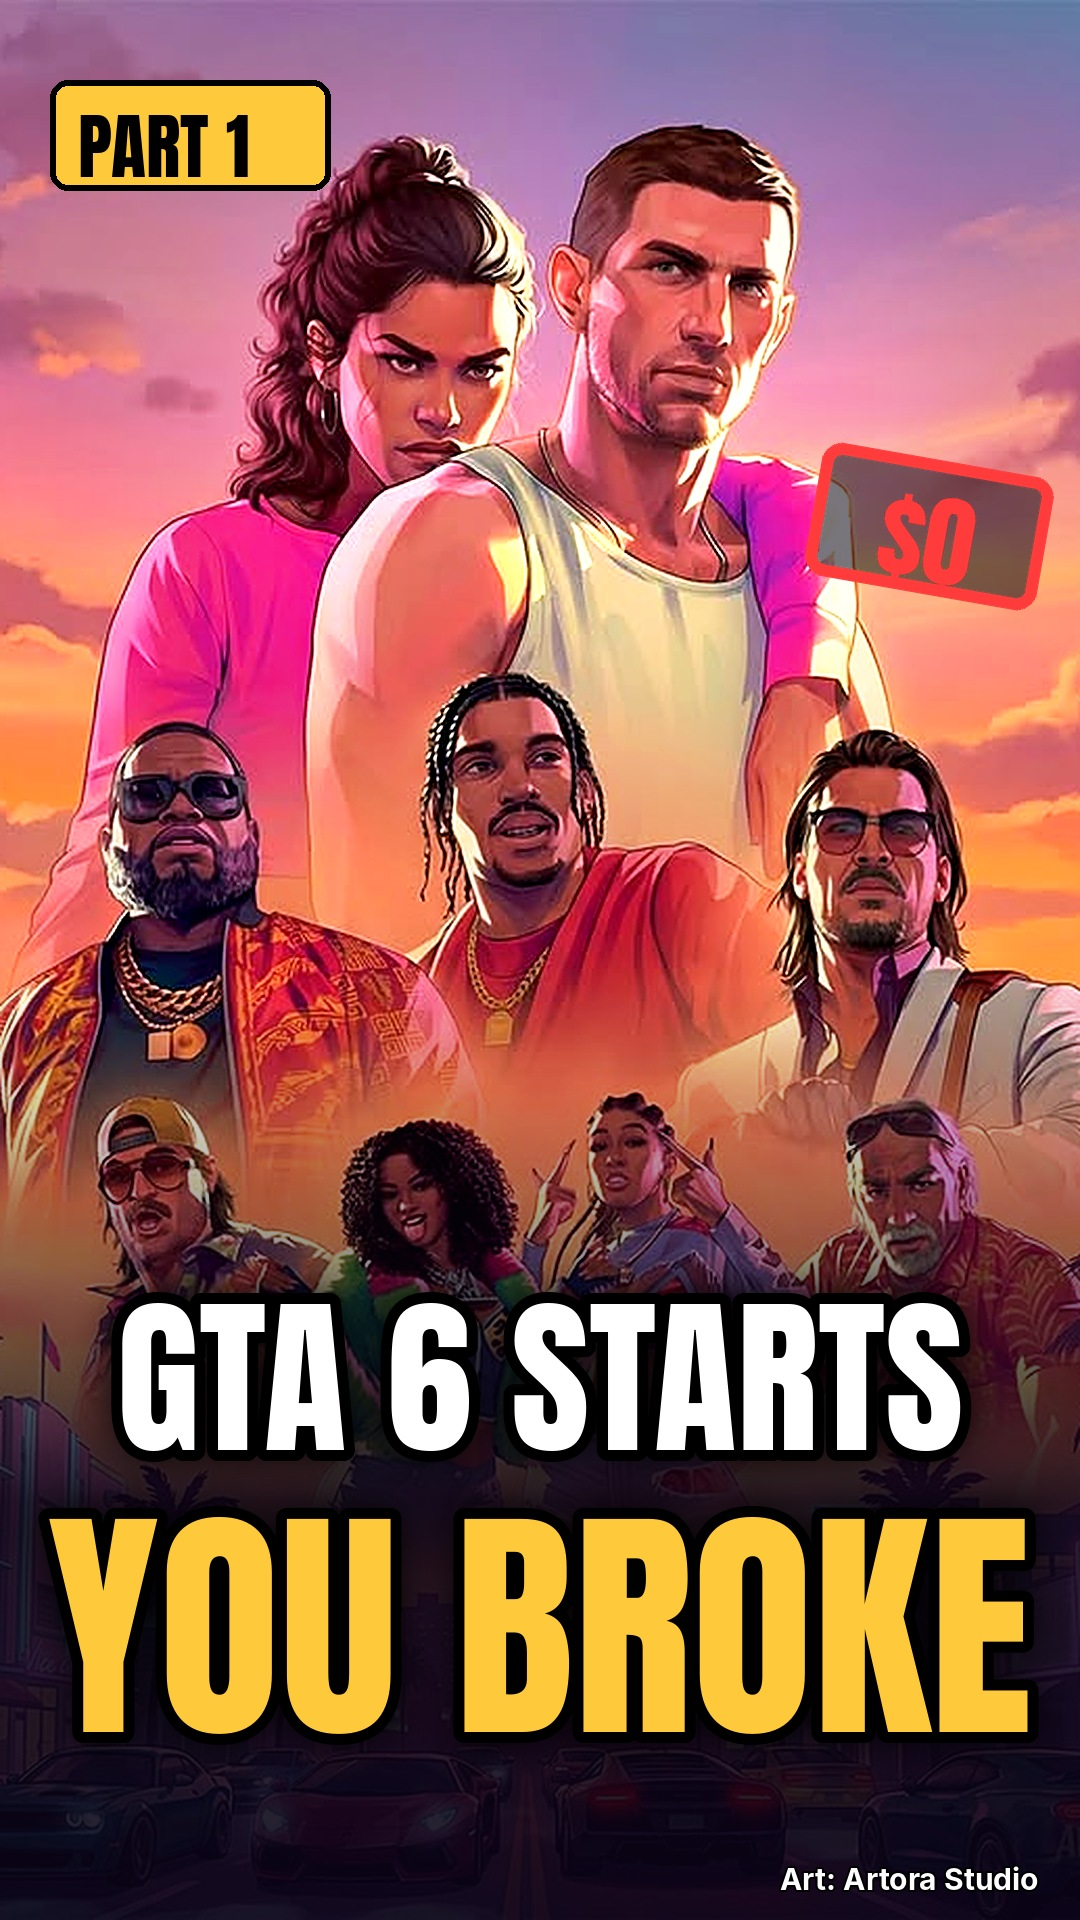
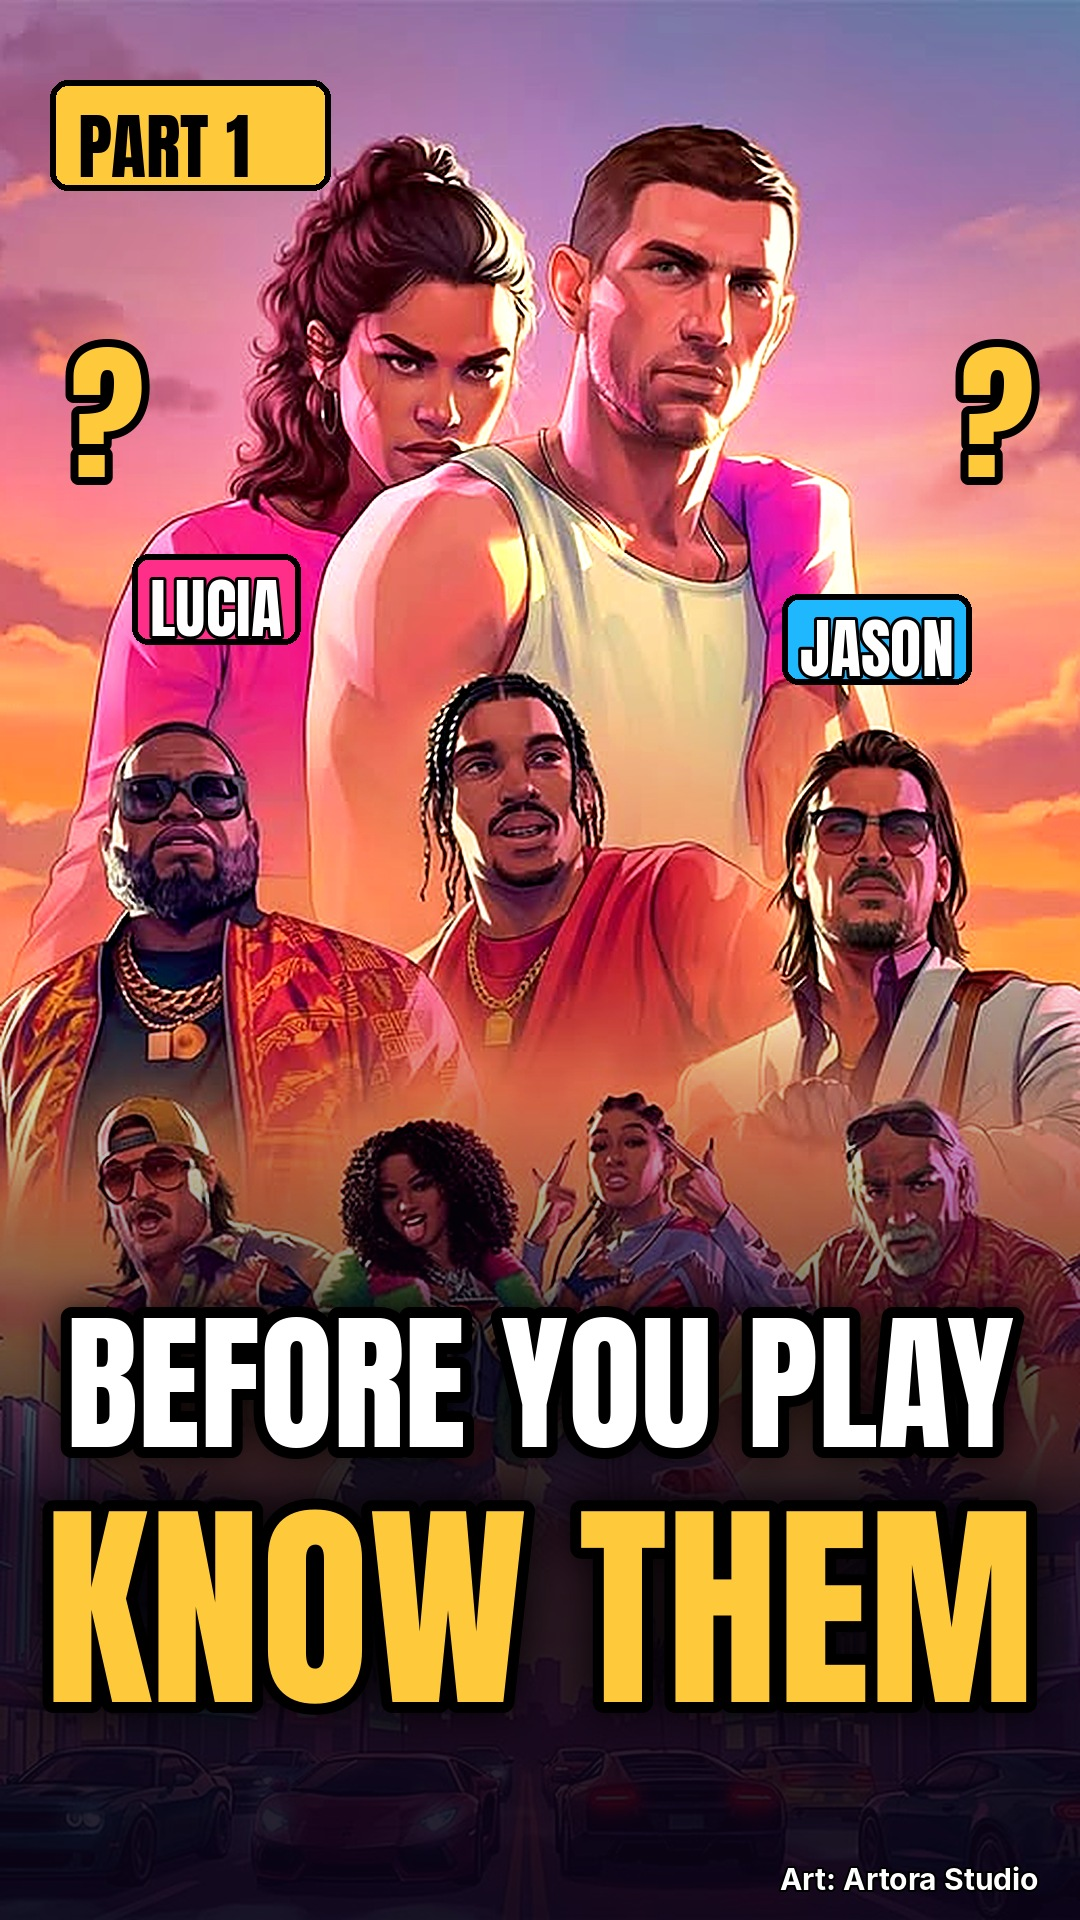
024 Part 1 cover: 'Before you play / Know them' + name tags (B/C alternates)
Claude-Session: https://claude.ai/code/session_01DX4dbwA3bNBQnMT2RJeEkt

diff --git a/production/make_cover024a.py b/production/make_cover024a.py
@@ -2,6 +2,9 @@
 import sys
 from PIL import Image, ImageDraw, ImageFont, ImageFilter, ImageEnhance
 src, out = sys.argv[1], sys.argv[2]
+L1 = sys.argv[3] if len(sys.argv) > 3 else "GTA 6 STARTS"
+L2 = sys.argv[4] if len(sys.argv) > 4 else "YOU BROKE"
+TAGS = len(sys.argv) > 5 and sys.argv[5] == "tags"
 W, H = 1080, 1920
 im = Image.open(src).convert("RGB")
 cw = int(im.height * 9 / 16); cx = 375 - cw // 2
@@ -21,18 +24,22 @@ def line(t, size, y, fill):
     f = ImageFont.truetype(F, size)
     while d.textlength(t, font=f) > W - 80: size -= 6; f = ImageFont.truetype(F, size)
     d.text(((W - d.textlength(t, font=f)) / 2, y), t, font=f, fill=fill, stroke_width=11, stroke_fill=(0, 0, 0))
-line("GTA 6 STARTS", 170, 1250, (255, 255, 255))
-line("YOU BROKE", 260, 1440, (255, 201, 60))
+line(L1, 150, 1270, (255, 255, 255))
+line(L2, 240, 1440, (255, 201, 60))
 glow = txt.filter(ImageFilter.GaussianBlur(18)); dk = Image.new("RGBA", (W, H), (0, 0, 0, 0)); dk.putalpha(glow.split()[3].point(lambda a: int(a * .8)))
 im = Image.alpha_composite(im, dk); im = Image.alpha_composite(im, txt)
 d = ImageDraw.Draw(im)
 # PART 1 tag
 f = ImageFont.truetype(F, 72); d.rounded_rectangle((50, 80, 330, 190), 18, fill=(255, 201, 60), outline=(0, 0, 0), width=6); d.text((78, 92), "PART 1", font=f, fill=(0, 0, 0))
-# red $0 stamp
-st = Image.new("RGBA", (250, 150), (0, 0, 0, 0)); sd = ImageDraw.Draw(st)
-sd.rounded_rectangle((8, 8, 242, 142), 20, outline=(255, 59, 59, 255), width=12, fill=(10, 3, 22, 140))
-fs = ImageFont.truetype(F, 100); sd.text(((250 - sd.textlength("$0", font=fs)) / 2, 12), "$0", font=fs, fill=(255, 59, 59, 255))
-st = st.rotate(-10, expand=True, resample=Image.BICUBIC); im.alpha_composite(st, (W - st.width - 14, 430))
+# name tags on the two leads (instead of the $0 stamp)
+if TAGS:
+    ft = ImageFont.truetype(F, 64)
+    for name, (x, y), col in (("LUCIA", (150, 560), (255, 46, 136)), ("JASON", (800, 600), (31, 184, 255))):
+        tw = d.textlength(name, font=ft); d.rounded_rectangle((x - 18, y - 6, x + tw + 18, y + 84), 16, fill=col, outline=(0, 0, 0), width=6)
+        d.text((x, y), name, font=ft, fill=(255, 255, 255), stroke_width=3, stroke_fill=(0, 0, 0))
+    q = ImageFont.truetype(F, 150)
+    for (x, y) in ((70, 300), (960, 300)):
+        d.text((x, y), "?", font=q, fill=(255, 201, 60), stroke_width=8, stroke_fill=(0, 0, 0))
 # credit
 fc = ImageFont.truetype("/usr/share/fonts/opentype/inter/Inter-Bold.otf", 30); d = ImageDraw.Draw(im)
 d.text((W - 300, H - 60), "Art: Artora Studio", font=fc, fill=(255, 255, 255, 200), stroke_width=2, stroke_fill=(0, 0, 0))
